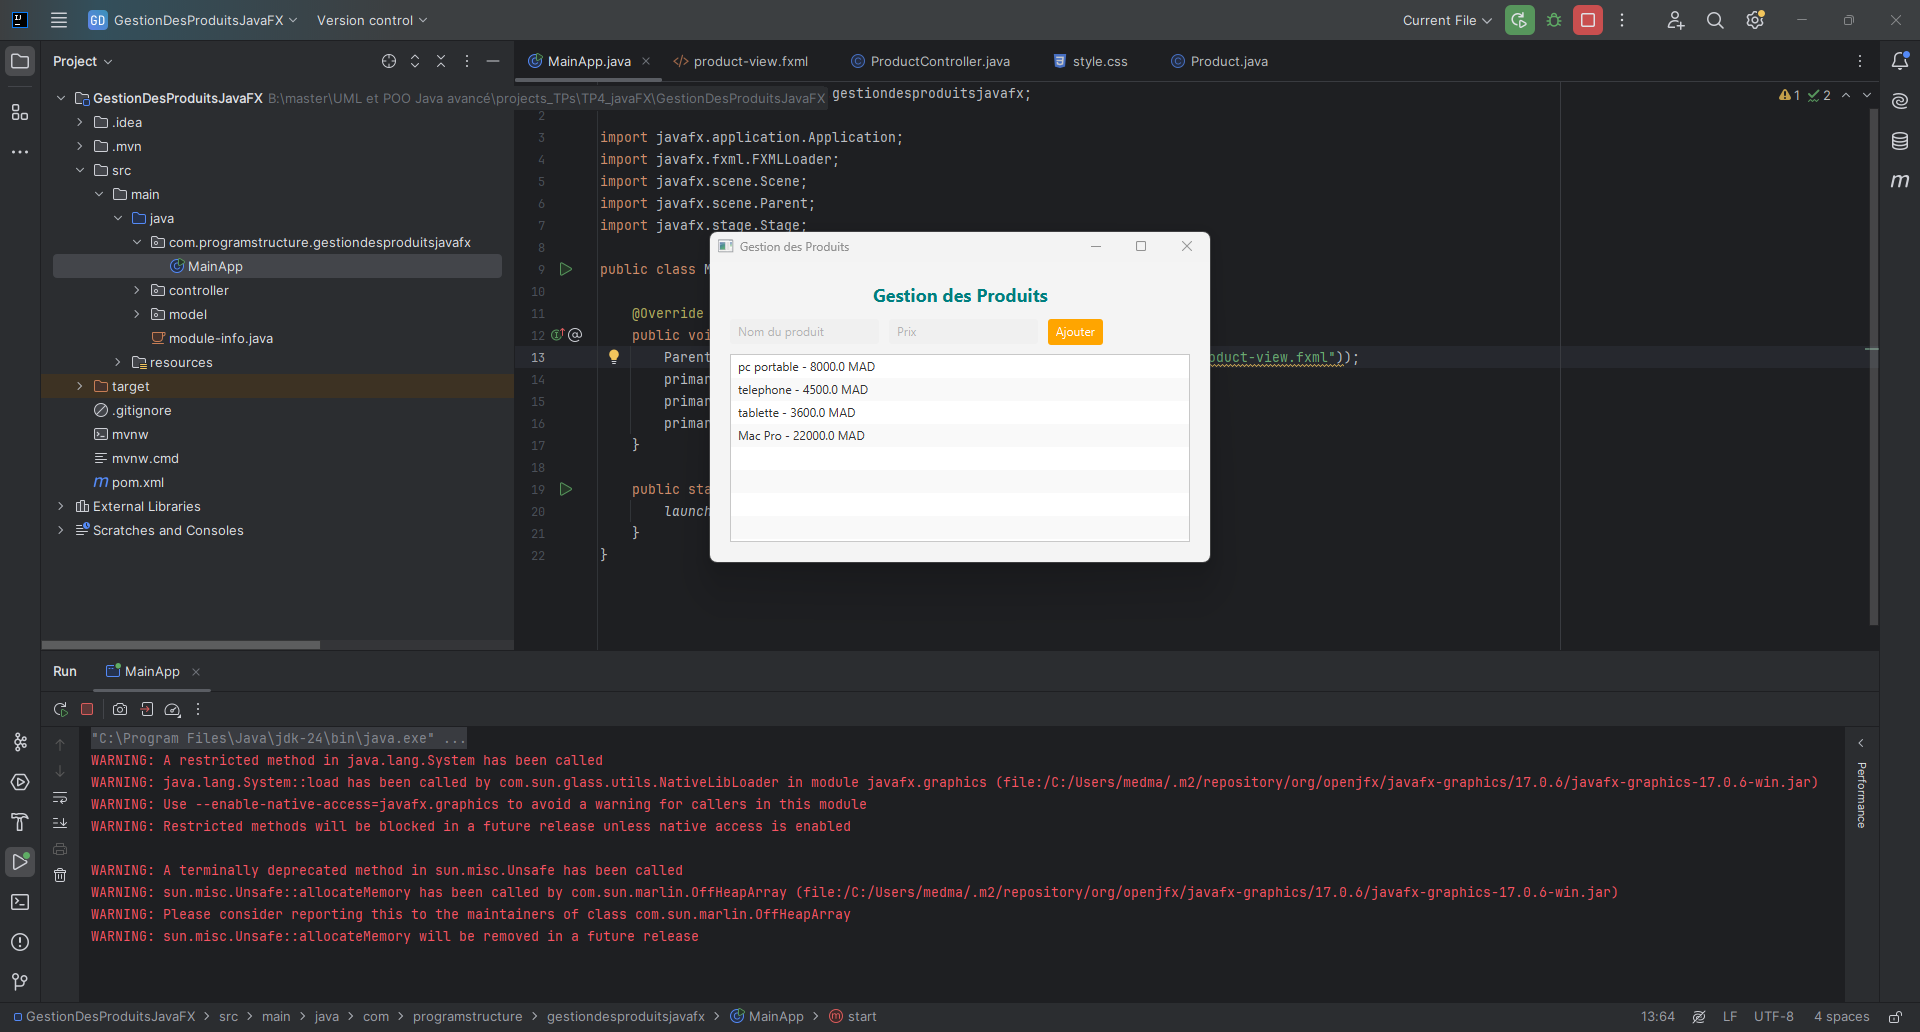
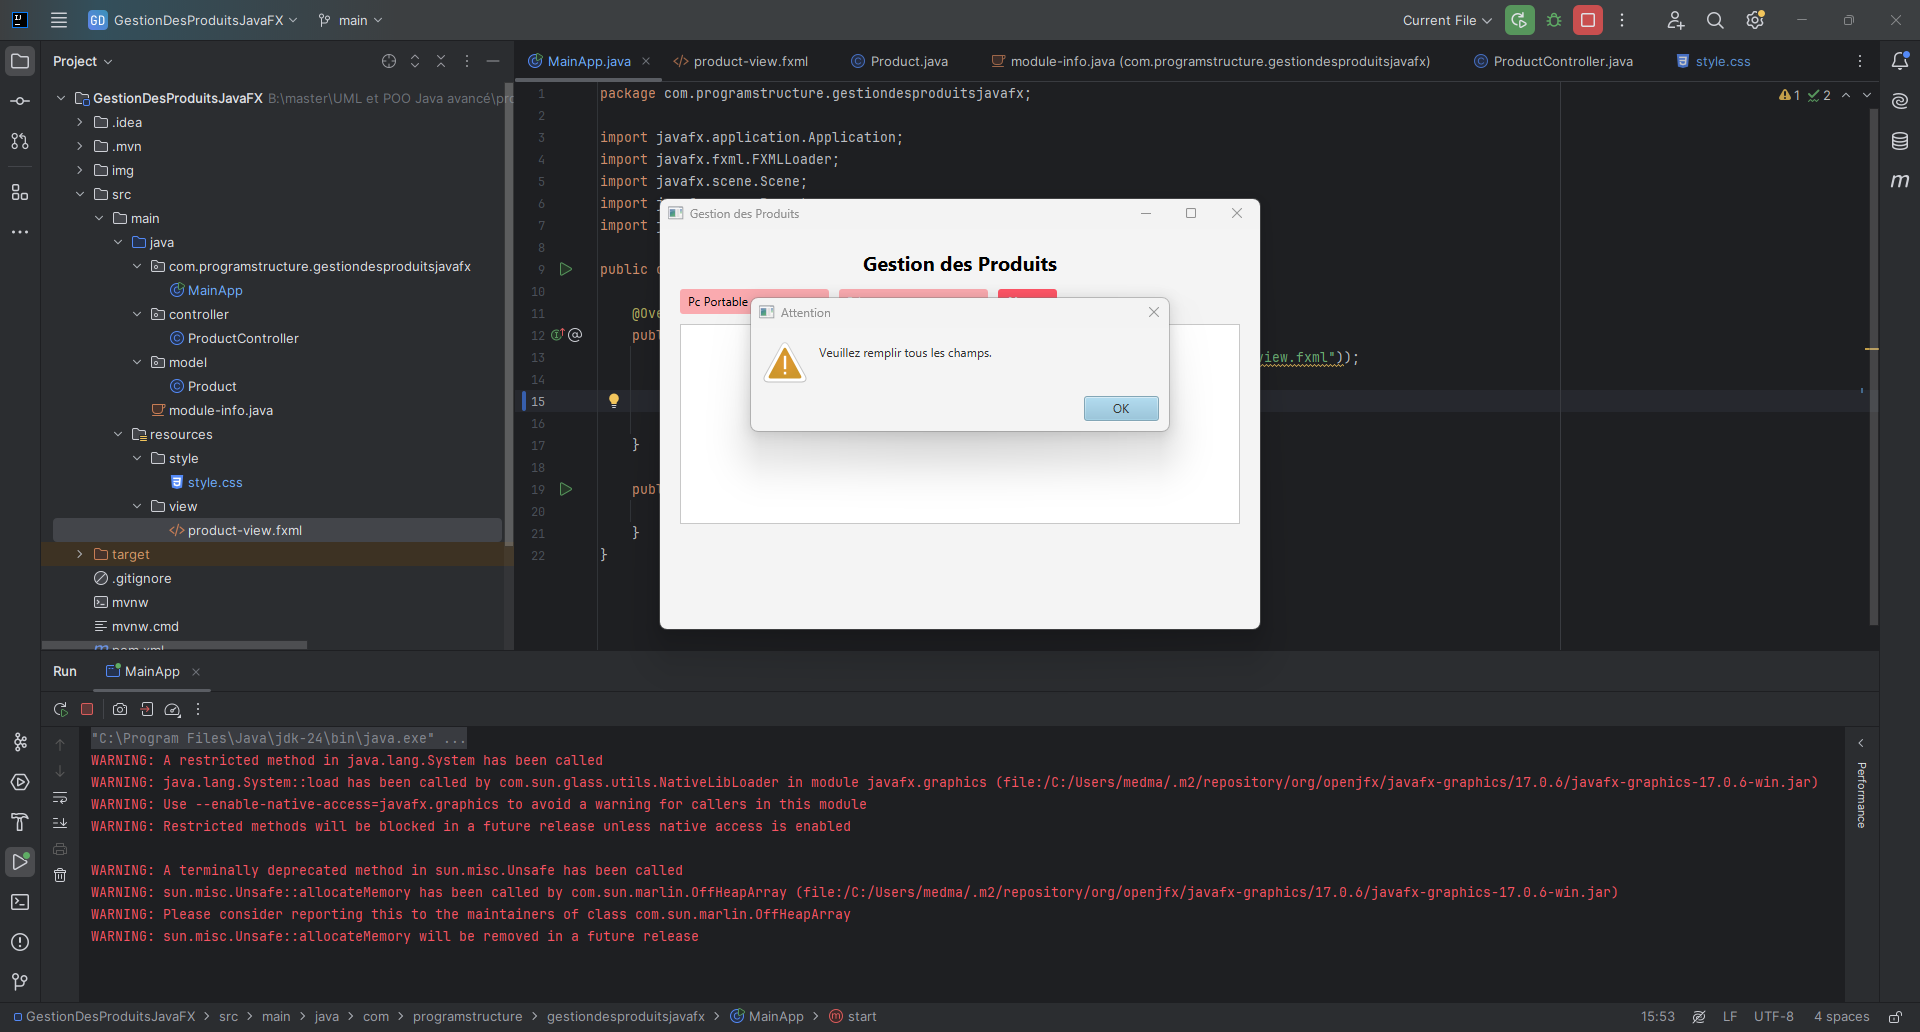
add images and update readme

diff --git a/src/main/resources/style/style.css b/src/main/resources/style/style.css
@@ -1,14 +1,17 @@
 .title {
-    -fx-font-size: 18px;
+    -fx-font-size: 20px;
     -fx-font-weight: bold;
-    -fx-text-fill: #008080;
+    -fx-text-fill: #000000;
 }
 
 .text-field {
-    -fx-background-color: #F0F0F0;
+    -fx-background-color: #FAAAAF;
+    -fx-prompt-text-fill: white;
+    -fx-text-fill: black;
 }
 
 .button {
-    -fx-background-color: #FFA500;
+    -fx-background-color: #F56;
     -fx-text-fill: white;
+    -fx-font-weight: bold;
 }

diff --git a/src/main/java/com/programstructure/gestiondesproduitsjavafx/MainApp.java b/src/main/java/com/programstructure/gestiondesproduitsjavafx/MainApp.java
@@ -12,7 +12,7 @@ public class MainApp extends Application {
     public void start(Stage primaryStage) throws Exception {
         Parent root = FXMLLoader.load(getClass().getResource("/view/product-view.fxml"));
         primaryStage.setTitle("Gestion des Produits");
-        primaryStage.setScene(new Scene(root, 500, 300));
+        primaryStage.setScene(new Scene(root, 600, 400));
         primaryStage.show();
     }
 

diff --git a/README.md b/README.md
@@ -1,3 +1,5 @@
 # JavaFX 
 ## this is the output of this project
 ![](img/1.png)
+![](img/2.png)
+![](img/3.png)
